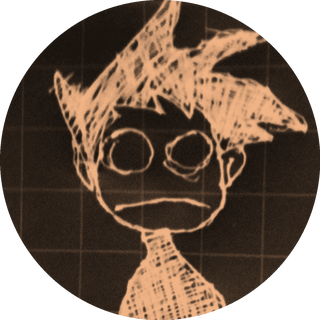
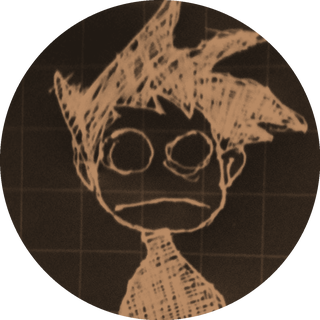
Move self-doodle inline beside name; mute dark version

diff --git a/index.html b/index.html
@@ -50,16 +50,16 @@
 
       footer { flex-shrink: 0; }
 
+      .name-row { display: flex; align-items: center; gap: 0.55em; margin-bottom: 0.3em; }
+      .name-row h1 { margin: 0; }
       .self-doodle {
-        position: absolute; top: 14px; right: 22px;
-        width: 104px; height: 104px; z-index: 2;
-        filter: drop-shadow(0 1px 3px rgba(0,0,0,0.10));
+        width: 54px; height: 54px; flex: none;
+        filter: drop-shadow(0 1px 2px rgba(0,0,0,0.10));
       }
       .self-doodle .doodle { width: 100%; height: 100%; display: block; border-radius: 50%; }
       .self-doodle .doodle-dark { display: none; }
       [data-theme="dark"] .self-doodle .doodle-light { display: none; }
       [data-theme="dark"] .self-doodle .doodle-dark { display: block; }
-      body.home-page .topnav { padding-right: 120px; }
 
       @media (max-width: 820px) {
         body.home-page { display: block; min-height: 0; padding: 20px 22px; }
@@ -69,17 +69,18 @@
         .home-intro { padding-right: 0; margin-bottom: 2em; }
         .home-intro p { font-size: 1em; }
         .home-links { border-left: none; padding-left: 0; }
-        .self-doodle { top: 10px; width: 78px; height: 78px; }
-        body.home-page .topnav { padding-right: 88px; }
+        .self-doodle { width: 46px; height: 46px; }
       }
     </style>
 </head>
 <body class="home-page">
-    <div class="self-doodle">
-        <img class="doodle doodle-light" src="images/self-doodle-light.png" alt="Daksh, self-portrait doodle">
-        <img class="doodle doodle-dark" src="images/self-doodle-dark.png" alt="Daksh, self-portrait doodle">
+    <div class="name-row">
+        <h1>Daksh</h1>
+        <div class="self-doodle">
+            <img class="doodle doodle-light" src="images/self-doodle-light.png" alt="Daksh, self-portrait doodle">
+            <img class="doodle doodle-dark" src="images/self-doodle-dark.png" alt="Daksh, self-portrait doodle">
+        </div>
     </div>
-    <h1>Daksh</h1>
     <p><em>On mathematical conspiracies...</em></p>
 
     <nav class="topnav">
